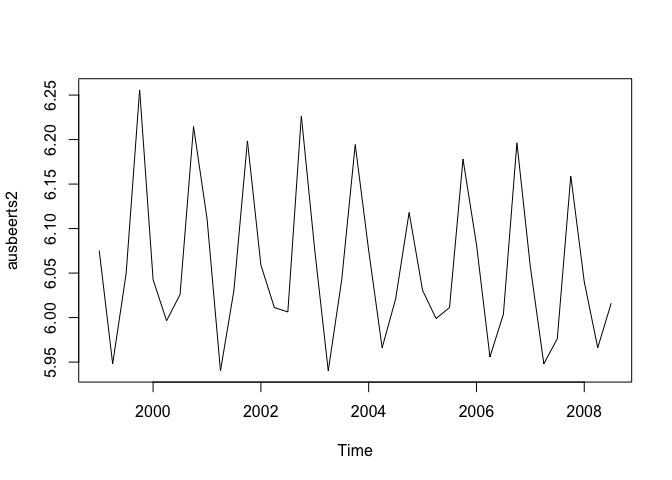
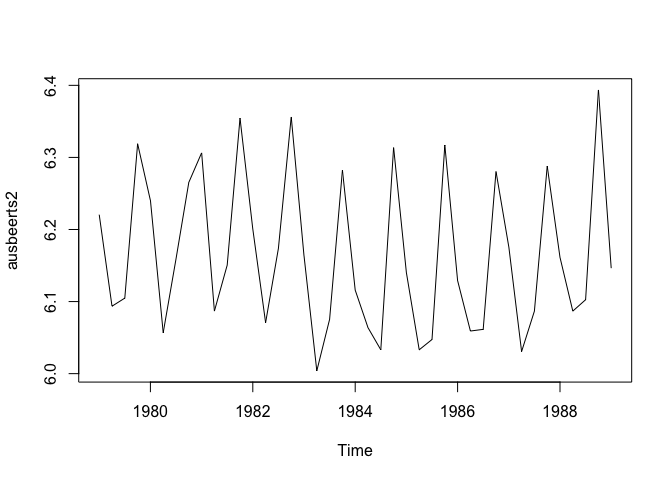
lecture assignment 11

diff --git a/assignments/11/lectureAssignment.md b/assignments/11/lectureAssignment.md
@@ -79,14 +79,7 @@ plot(ausbeerLogTs)
 ![](lectureAssignment_files/figure-html/unnamed-chunk-3-1.png)<!-- -->
 
 ```r
-ausbeerts2 <- window(ausbeerLogTs, start=1999, end=2009)
-```
-
-```
-## Warning in window.default(x, ...): 'end' value not changed
-```
-
-```r
+ausbeerts2 <- window(ausbeerLogTs, start=1979, end=1989)
 ts.plot(ausbeerts2)
 ```
 
